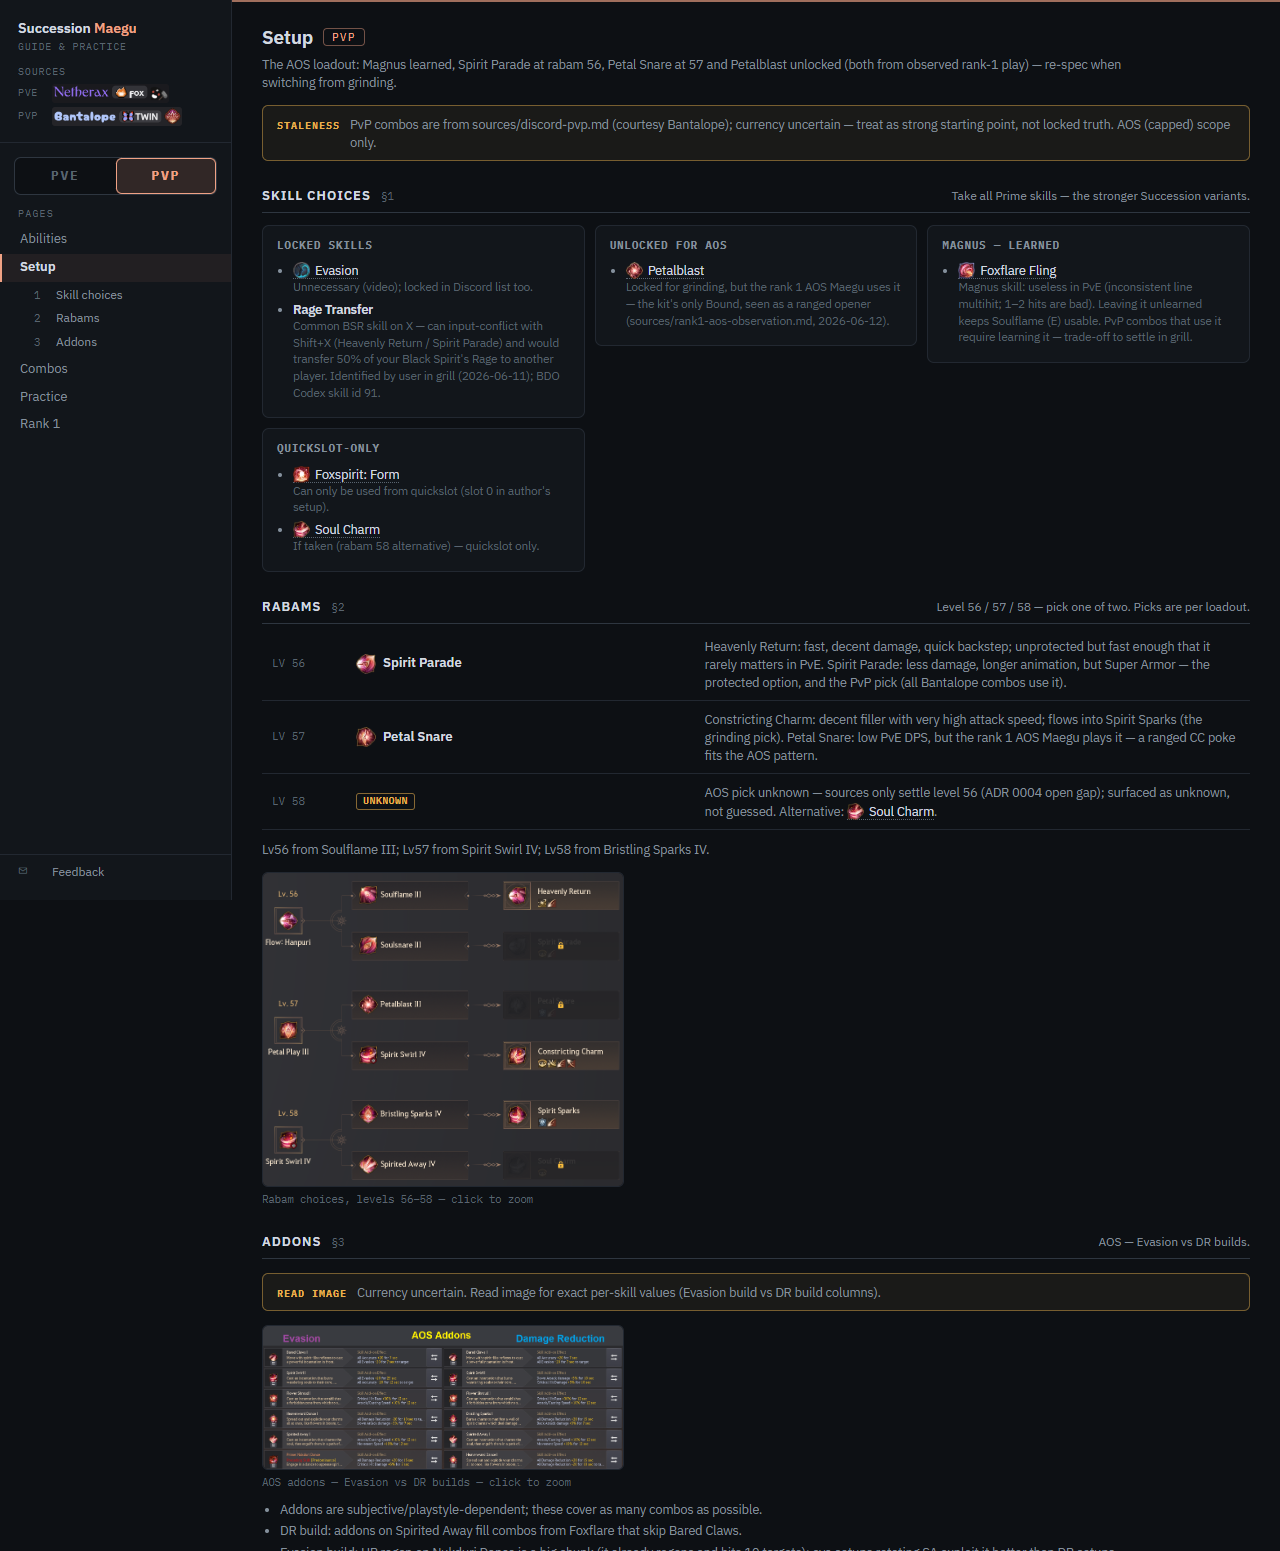
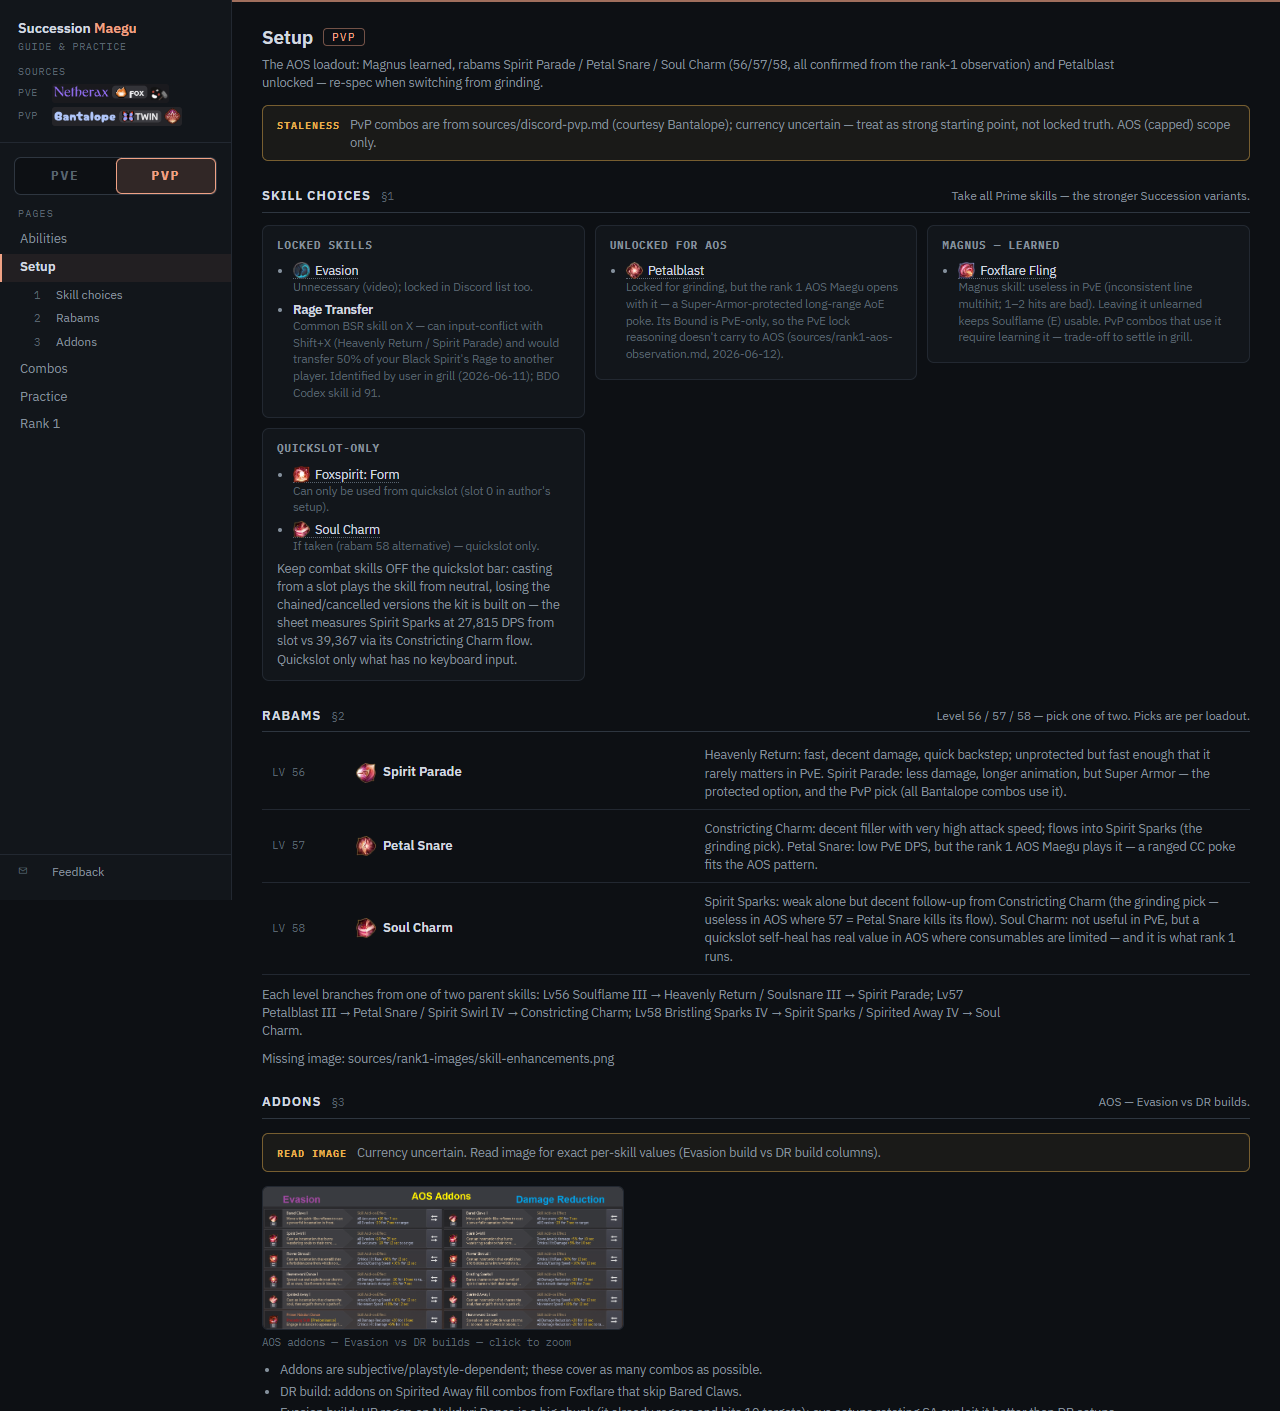
rank1: rabam 58 = Soul Charm (tree screenshot); fact-check fixes; reorganize page + practice chains
- Rabam 58 settled from the rank-1 skill-enhancement tree screenshot (Soul
  Charm; Spirit Sparks locked out) — all three AOS rabams now confirmed; ADR
  0004 amended, tree screenshot shown on the PvP Setup page.
- Fact-check corrections: Petalblast Bound is PvE-only (he runs it as an SA
  ranged poke); Charmed is unprotected in PvP (the risk stiff, not a
  protected poke).
- Page reorganized: analysis -> setup takeaways (rabams + addons + tree) ->
  suggested in-game UI -> observed log -> chains to practice (5 drillable
  micro-chains with notes, at the bottom).

diff --git a/app/src/pages/Rank1Page.tsx b/app/src/pages/Rank1Page.tsx
@@ -1,10 +1,11 @@
 import { Fragment } from "react";
 import { Navigate } from "react-router-dom";
 import type { Ability, Mode } from "../data/types";
-import { ability, bestDps, ccBadges, observations } from "../data";
-import { CcBadges, Kbd, ProtMeter } from "../components/badges";
+import { ability, bestDps, ccBadges, observations, setup } from "../data";
+import { AbilityLink, CcBadges, Kbd, ProtMeter } from "../components/badges";
 import AbilityIcon from "../components/AbilityIcon";
 import ComboStrip from "../components/ComboStrip";
+import SourceImage from "../components/SourceImage";
 import { Callout, PageHeader, Section } from "../components/Section";
 
 const fmt = (v: number | null) =>
@@ -60,16 +61,21 @@ function KitGroups({ groups }: { groups: { label: string; why: string; abilities
   );
 }
 
-/** PvP-only: what the rank 1 AOS Succession Maegu actually plays, and what it implies. */
+/**
+ * PvP-only: what the rank 1 AOS Succession Maegu actually plays. Reading order:
+ * the conclusions first (analysis → setup → suggested UI), the raw log as the
+ * reference behind them, and the drillable chains at the bottom.
+ */
 export default function Rank1Page({ mode }: { mode: Mode }) {
   if (mode === "pve") return <Navigate to="/pvp/rank1" replace />;
   const obs = observations.filter((o) => o.mode === "pvp");
+  const aosRabams = setup.rabams.choices.filter((c) => c.aos_pick);
 
   return (
     <div>
       <PageHeader title="Rank 1" mode={mode}>
-        What the rank 1 AOS Succession Maegu was actually seen playing — a usage record with a
-        reading of the pattern behind it. Setup implications are applied on the Setup page.
+        What the rank 1 AOS Succession Maegu was actually seen playing — the pattern, the setup
+        worth copying, and the chains worth drilling. Everything traces to the observed session.
       </PageHeader>
 
       {obs.map((o) => (
@@ -92,6 +98,68 @@ export default function Rank1Page({ mode }: { mode: Mode }) {
           </Section>
 
           <Section
+            id={`${o.id}-setup`}
+            title="Setup takeaways"
+            count="§2"
+            desc="Already applied to the AOS loadout — the Setup page carries the same picks."
+          >
+            <div className="rabams">
+              {aosRabams.map((c) => (
+                <div className="rabam" key={c.level}>
+                  <span className="lv">LV {c.level}</span>
+                  <span className="pick">
+                    <AbilityIcon id={c.aos_pick!} size="row" />
+                    {ability(c.aos_pick!).short_name}
+                  </span>
+                  <span className="rnote">{c.aos_pick_note}</span>
+                </div>
+              ))}
+            </div>
+            <ul className="notes">
+              {setup.skill_choices.aos_unlock.map((u) => (
+                <li key={u.ability}>
+                  Unlocked for AOS: <AbilityLink id={u.ability} mode="pvp" /> — {u.reason}
+                </li>
+              ))}
+            </ul>
+            {o.observed_addons && (
+              <div className="hotbar-section">
+                <h4 className="micro">His addons (screenshot transcription)</h4>
+                <div className="hotbar-row">
+                  {o.observed_addons.map((row) => (
+                    <div key={row.ability} className="hotbar-slot sec-observed">
+                      <span className="slot-name">
+                        <AbilityIcon id={row.ability} />
+                        {ability(row.ability).short_name}
+                      </span>
+                      {row.effects.map((e) => (
+                        <div key={e} className="note">
+                          {e}
+                        </div>
+                      ))}
+                    </div>
+                  ))}
+                </div>
+              </div>
+            )}
+            {setup.rabams.aos_image && (
+              <SourceImage
+                path={setup.rabams.aos_image}
+                alt="The rank 1 player's skill enhancement tree (observed)"
+              />
+            )}
+          </Section>
+
+          <Section
+            id={`${o.id}-kit`}
+            title="Suggested in-game UI"
+            count={o.abilities.length}
+            desc="The observed kit grouped by how he used it — set your hotbar rows to these groups, higher DPS left."
+          >
+            {o.ui_groups ? <KitGroups groups={o.ui_groups} /> : null}
+          </Section>
+
+          <Section
             id={`${o.id}-log`}
             title="Observed log"
             count={o.sequences.length}
@@ -110,37 +178,20 @@ export default function Rank1Page({ mode }: { mode: Mode }) {
             </ul>
           </Section>
 
-          <Section
-            id={`${o.id}-kit`}
-            title="Suggested in-game UI"
-            count={o.abilities.length}
-            desc="The observed kit grouped by how he used it — set your hotbar rows to these groups, higher DPS left."
-          >
-            {o.ui_groups ? <KitGroups groups={o.ui_groups} /> : null}
-          </Section>
-
-          {o.observed_addons && (
+          {o.practice_chains && (
             <Section
-              id={`${o.id}-addons`}
-              title="Observed addons"
-              count={o.observed_addons.length}
-              desc="Transcribed from the user's screenshot of the player's addon window."
+              id={`${o.id}-chains`}
+              title="Chains to practice"
+              count={o.practice_chains.length}
+              desc="The only sequences that repeated — drill these cells, weave Spirit Step between everything else."
             >
-              <div className="hotbar-row">
-                {o.observed_addons.map((row) => (
-                  <div key={row.ability} className="hotbar-slot sec-observed">
-                    <span className="slot-name">
-                      <AbilityIcon id={row.ability} />
-                      {ability(row.ability).short_name}
-                    </span>
-                    {row.effects.map((e) => (
-                      <div key={e} className="note">
-                        {e}
-                      </div>
-                    ))}
-                  </div>
-                ))}
-              </div>
+              {o.practice_chains.map((c) => (
+                <div key={c.label} className="hotbar-section">
+                  <h4 className="micro">{c.label}</h4>
+                  <ComboStrip combo={{ steps: c.steps }} />
+                  {c.note && <p className="note">{c.note}</p>}
+                </div>
+              ))}
             </Section>
           )}
         </Fragment>

diff --git a/app/src/pages/SetupPage.tsx b/app/src/pages/SetupPage.tsx
@@ -37,9 +37,9 @@ export default function SetupPage({ mode }: { mode: Mode }) {
           </>
         ) : (
           <>
-            The AOS loadout: Magnus learned, Spirit Parade at rabam 56, Petal Snare at 57 and
-            Petalblast unlocked (both from observed rank-1 play) — re-spec when switching from
-            grinding.
+            The AOS loadout: Magnus learned, rabams Spirit Parade / Petal Snare / Soul Charm
+            (56/57/58, all confirmed from the rank-1 observation) and Petalblast unlocked —
+            re-spec when switching from grinding.
           </>
         )}
       </PageHeader>
@@ -138,7 +138,14 @@ export default function SetupPage({ mode }: { mode: Mode }) {
           })}
         </div>
         <p className="note">{s.rabams.tree}</p>
-        <SourceImage path={s.rabams.image} alt="Rabam choices, levels 56–58" />
+        <SourceImage
+          path={!pve && s.rabams.aos_image ? s.rabams.aos_image : s.rabams.image}
+          alt={
+            !pve && s.rabams.aos_image
+              ? "The rank 1 AOS player's skill enhancement tree (observed)"
+              : "Rabam choices, levels 56–58"
+          }
+        />
       </Section>
 
       <Section

diff --git a/app/src/data/types.ts b/app/src/data/types.ts
@@ -152,6 +152,8 @@ export interface Observation {
   abilities: string[];
   /** Suggested in-game UI/hotbar grouping derived from how the player used the kit. */
   ui_groups?: { label: string; why: string; abilities: string[] }[];
+  /** The recurring micro-chains — the only sequences that repeated — as practice strips. */
+  practice_chains?: { label: string; steps: ComboStep[]; note?: string }[];
   /** Per-skill addon effects transcribed from a screenshot of the observed player's setup. */
   observed_addons?: { ability: string; effects: string[] }[];
   /** The reading of the session: what pattern the chaos follows, grounded in the sources. */
@@ -227,6 +229,8 @@ export interface SetupFile {
   rabams: {
     sources: string[];
     image: string;
+    /** The rank-1 player's own enhancement tree (screenshot) — shown on the PvP Setup page. */
+    aos_image?: string;
     choices: {
       level: number;
       pve_pick: string;

diff --git a/app/src/toc.ts b/app/src/toc.ts
@@ -80,10 +80,11 @@ export function tocFor(page: Page, mode: Mode): TocEntry[] {
         .filter((o) => o.mode === "pvp")
         .flatMap((o) => [
           { id: `${o.id}-summary`, label: "The order in the chaos" },
-          { id: `${o.id}-log`, label: "Observed log", count: o.sequences.length },
+          { id: `${o.id}-setup`, label: "Setup takeaways" },
           { id: `${o.id}-kit`, label: "Suggested in-game UI", count: o.abilities.length },
-          ...(o.observed_addons
-            ? [{ id: `${o.id}-addons`, label: "Observed addons", count: o.observed_addons.length }]
+          { id: `${o.id}-log`, label: "Observed log", count: o.sequences.length },
+          ...(o.practice_chains
+            ? [{ id: `${o.id}-chains`, label: "Chains to practice", count: o.practice_chains.length }]
             : []),
         ]);
   }

diff --git a/app/src/pages/AbilitiesPage.tsx b/app/src/pages/AbilitiesPage.tsx
@@ -36,9 +36,9 @@ export default function AbilitiesPage({ mode }: { mode: Mode }) {
           </>
         ) : (
           <>
-            The AOS loadout: Foxflare Fling (Magnus) learned, Spirit Parade at rabam 56, Petal
-            Snare at 57 and Petalblast unlocked (observed rank-1 play). PvP always means AOS
-            (capped 3v3) here.
+            The AOS loadout: Foxflare Fling (Magnus) learned, rabams Spirit Parade / Petal Snare /
+            Soul Charm (confirmed from the rank-1 observation), Petalblast unlocked. PvP always
+            means AOS (capped 3v3) here.
           </>
         )}
       </PageHeader>

diff --git a/sources/rank1-aos-observation.md b/sources/rank1-aos-observation.md
@@ -40,6 +40,18 @@
 > i think in my initial prompt with his inputs i wrote, every time i wrote "foxspirit:" that was
 > likely foxspirit: tag
 
+> [skill enhancement tree screenshot] ok so this is rank 1 skill enhancments.
+
+## Skill enhancement tree (screenshot: `rank1-images/skill-enhancements.png`)
+
+The rank-1 player's own rabam tree, all three picks visible directly:
+
+| Level | Selected | Locked out |
+|---|---|---|
+| 56 | **Spirit Parade** (from Soulsnare III) | Heavenly Return |
+| 57 | **Petal Snare** (from Petalblast III) | Constricting Charm |
+| 58 | **Soul Charm** (from Spirited Away IV) | Spirit Sparks |
+
 (Resolved — hypothesis retracted by the user: the opener skills carry no self-buff addons (only
 Bared Claws has one, a to-target debuff), so addon application wasn't the motive. The opener
 stands as ranged CC fishing while the gap closes.)
@@ -84,14 +96,18 @@ stands as ranged CC fishing while the gap closes.)
 
 ## What the observation implies
 
-- **Rabam 56 = Spirit Parade** (seen) — matches the locked AOS pick.
-- **Rabam 57 = Petal Snare** (seen) — first gameplay evidence for the open 57 gap; also matches
-  BDFoundry's suggestion. **Applied** to `data/setup.json` as the AOS pick on 2026-06-12 at the
-  user's direction.
-- **Rabam 58 — still no evidence** (neither Spirit Sparks nor Soul Charm observed). Stays unknown.
-- **Petalblast is unlocked and used** — the grinding loadout locks it, but its Bound CC earns a
-  slot at rank 1 AOS; the match opener and fragment 3 both start with it. **Applied** as an
-  `aos_unlock` in `data/setup.json` (2026-06-12).
+- **Rabam 56 = Spirit Parade** (seen in play; confirmed by the tree screenshot) — matches the
+  locked AOS pick.
+- **Rabam 57 = Petal Snare** (seen in play; confirmed by the tree screenshot; matches
+  BDFoundry). **Applied** to `data/setup.json` on 2026-06-12.
+- **Rabam 58 = Soul Charm** (tree screenshot — never seen cast, as expected for a downtime
+  quickslot heal; matches BDFoundry). **Applied** to `data/setup.json` on 2026-06-12. The
+  AOS rabam gap from ADR 0004 is fully resolved.
+- **Petalblast is unlocked and used** — the grinding loadout locks it, but at rank 1 AOS it
+  earns a slot as a Super-Armor-protected long-range AoE poke (note: its Bound is **PvE-only**
+  per the tooltip, so the "only Bound in kit" lock reasoning doesn't carry to AOS); the match
+  opener and fragment 3 both start with it. **Applied** as an `aos_unlock` in `data/setup.json`
+  (2026-06-12).
 - **Constant Spirit Step weaving** between casts — in PvP, Spirit Step is Invincible → Super
   Armor (nullified during cooldown), so the weaving is rolling protection, not just movement.
 - The punish after a catch was Charmed → Foxflare → Heavenward Dance. Foxspirit Tag's -20 DP

diff --git a/docs/adr/0004-per-mode-loadouts.md b/docs/adr/0004-per-mode-loadouts.md
@@ -7,3 +7,9 @@ Heavenly Return at rabam 56, PvE addons; AOS = Magnus (Foxflare Fling) learned, 
 require Charmed — not interchangeable there); PvE views must not show Foxflare Fling as
 available. Open gap: the sources never state AOS picks for rabams 57/58. Decided 2026-06-11 in
 the Phase 1 grill.
+
+**Amendment (2026-06-12):** the 57/58 gap is resolved by the rank-1 observation
+(`sources/rank1-aos-observation.md`): AOS rabams are Spirit Parade / Petal Snare / Soul Charm
+(56 and 57 seen in play; 58 read off the player's skill-enhancement tree screenshot). The same
+observation added an AOS-only unlock: Petalblast (locked for grinding) is learned in AOS as an
+SA-protected ranged poke — "locked" is now a per-mode fact (`isLockedIn`), not a global flag.

diff --git a/CONTEXT.md b/CONTEXT.md
@@ -27,9 +27,9 @@ qualifies; the Absolute rank is the distinguishing fact (user decision, 2026-06-
 
 **Rabam**:
 A level 56/57/58 skill enhancement where you pick one of two skills. Picks are per loadout:
-Grinding takes Heavenly Return at 56; AOS takes Spirit Parade. 57 = Constricting Charm,
-58 = Spirit Sparks for grinding; AOS takes Petal Snare at 57 (from the rank-1 observation,
-2026-06-12); the AOS 58 pick remains an open gap.
+Grinding takes Heavenly Return / Constricting Charm / Spirit Sparks; AOS takes Spirit Parade /
+Petal Snare / Soul Charm (all three confirmed from the rank-1 observation, 2026-06-12 — the
+ADR 0004 open gap is resolved).
 _Avoid_: skill enhancement (use only when explaining what a rabam is)
 
 **Loadout**:
